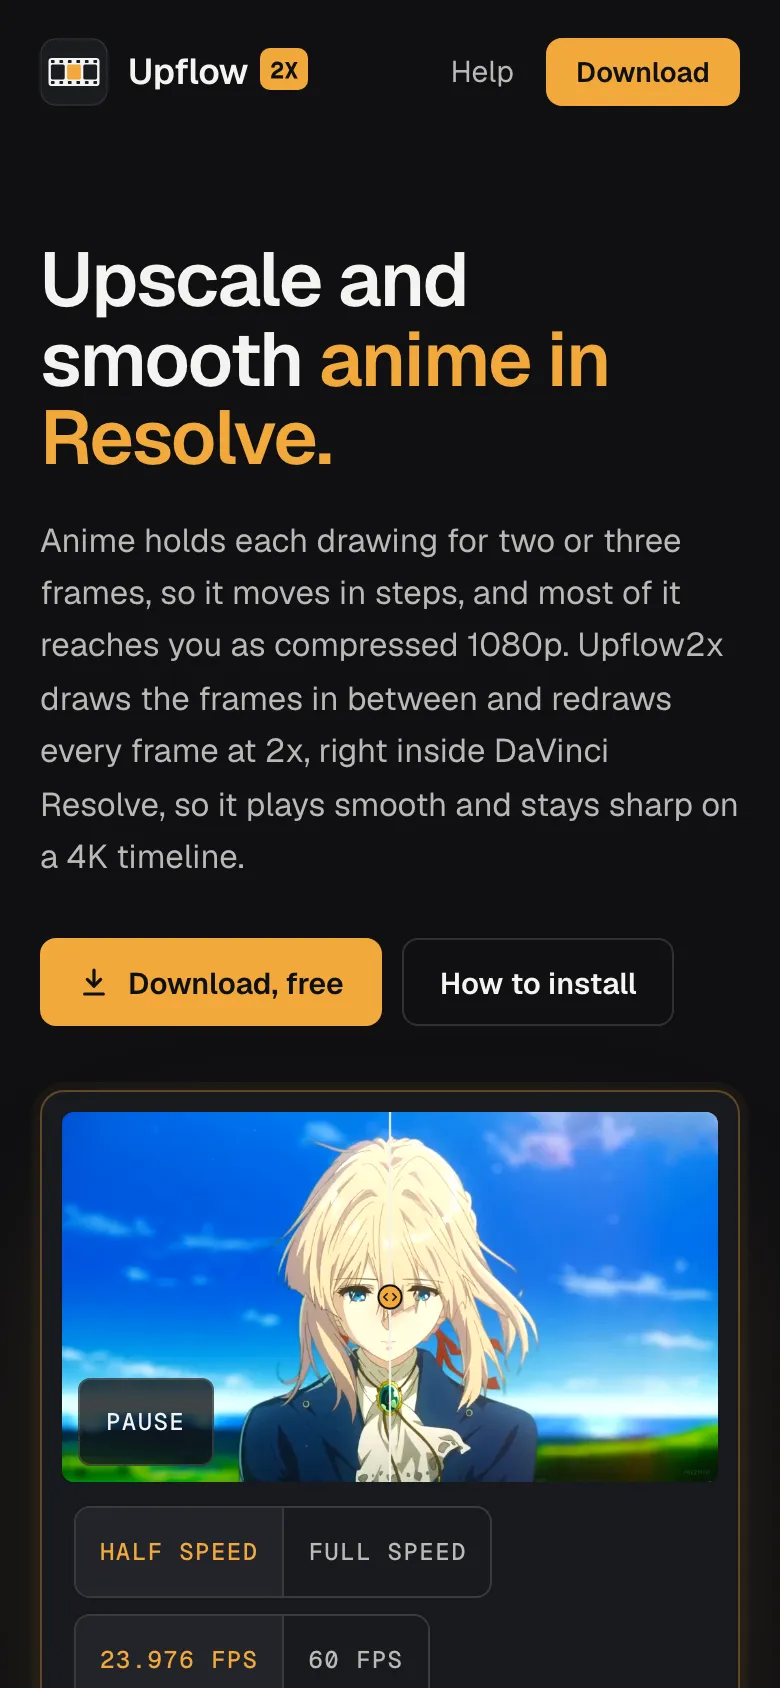
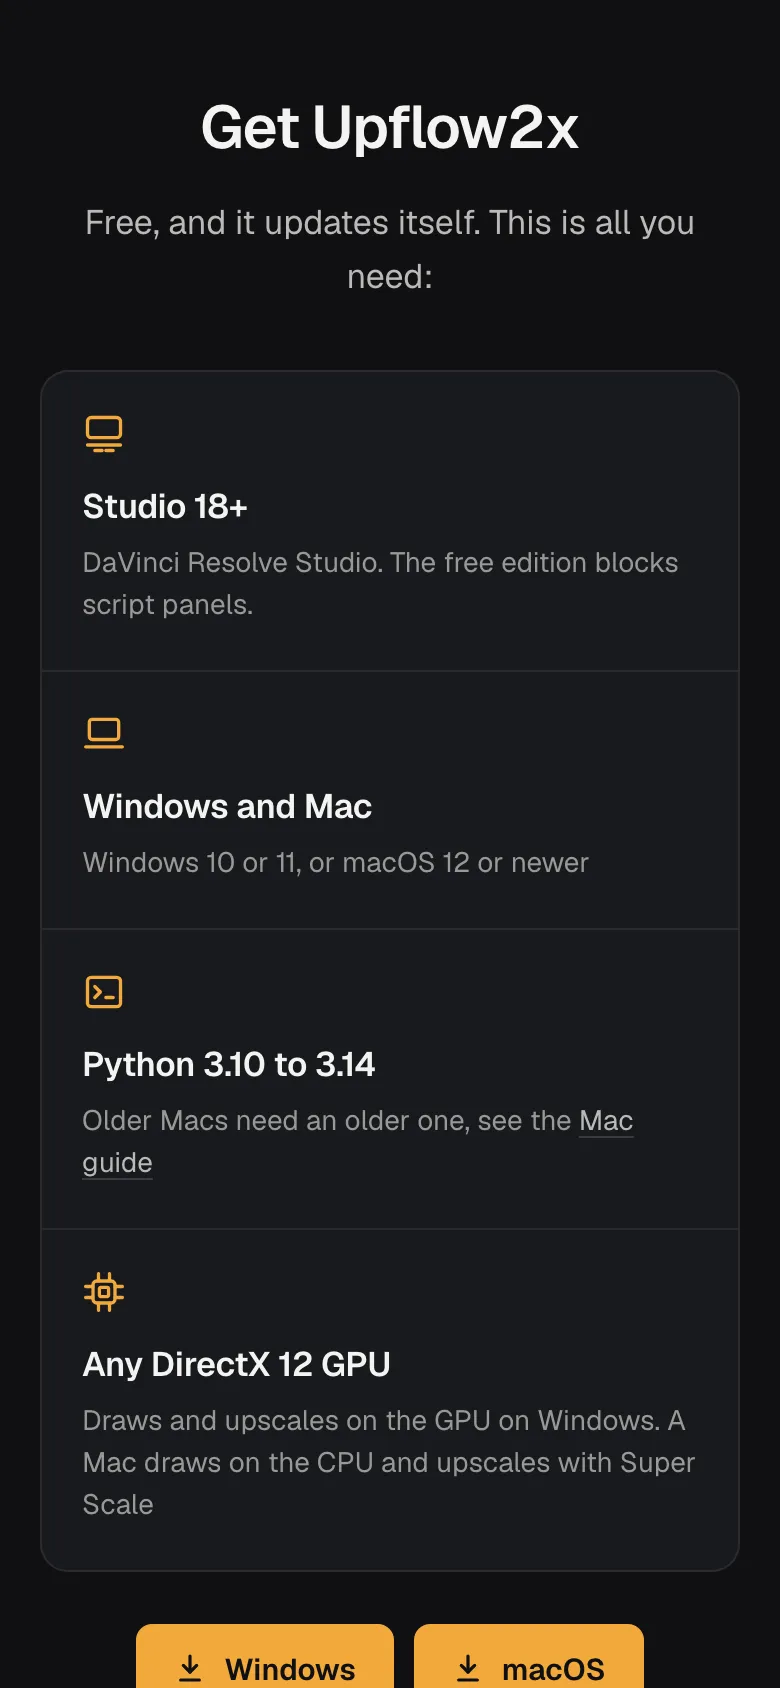
content: recapture the upflow2x.com screenshots without the uncredited anime clip

diff --git a/lib/products.ts b/lib/products.ts
@@ -1031,8 +1031,9 @@ export const products: Product[] = [
         1800,
         'desktop',
         'screenshot',
-        'The upflow2x.com home page with its before and after comparison',
-        'Playwright capture of https://upflow2x.com/ at 1440x900, 2x, 2026-10-27',
+        'The upflow2x.com How it works section, with the film poster of the plugin in DaVinci Resolve, above the Get Upflow2x requirements',
+        'Playwright capture of https://upflow2x.com/ at 1440x900, 2x, 2026-10-27, scrolled past the comparison player, whose anime clip has no licence we can show',
+        { credit: HERO_CREDIT },
       ),
       image(
         'upflow2x',
@@ -1041,8 +1042,8 @@ export const products: Product[] = [
         1688,
         'mobile',
         'screenshot',
-        'The upflow2x.com home page on a phone',
-        'Playwright capture of https://upflow2x.com/ at 390x844, 2x, 2026-10-27',
+        'The Get Upflow2x section of upflow2x.com on a phone, with the requirements',
+        'Playwright capture of https://upflow2x.com/ at 390x844, 2x, 2026-10-27, scrolled to Get Upflow2x, past the comparison player, whose anime clip has no licence we can show',
       ),
     ],
   },
